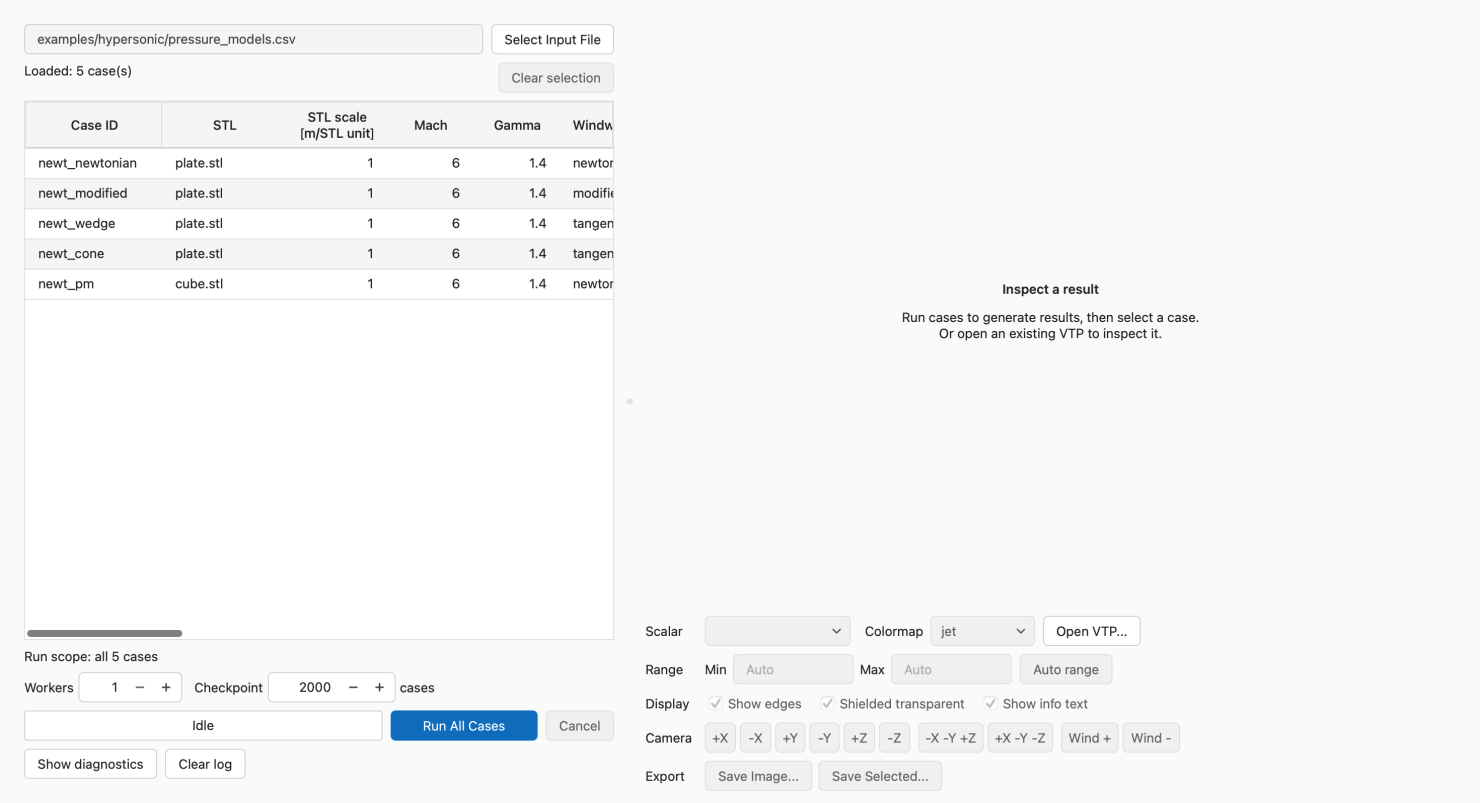
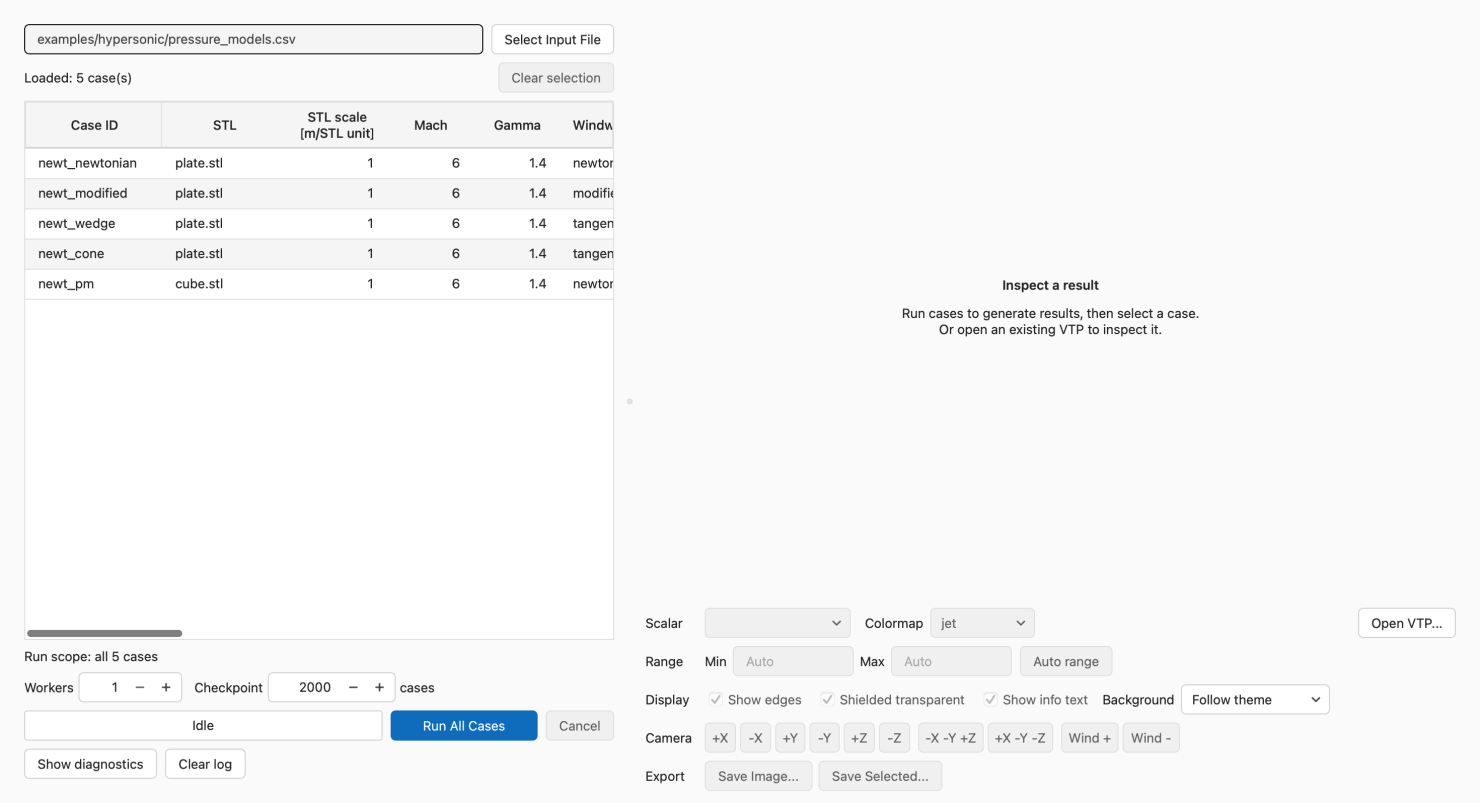
Refine GUI alignment, viewport backgrounds, and constant legends

diff --git a/src/panelsolver/app/viewer.py b/src/panelsolver/app/viewer.py
@@ -9,7 +9,7 @@ from pathlib import Path
 
 import numpy as np
 import pyvista as pv
-from PySide6 import QtCore, QtWidgets
+from PySide6 import QtCore, QtGui, QtWidgets
 from pyvistaqt import QtInteractor
 
 from .gui_components import FlowLayout
@@ -140,6 +140,27 @@ class ViewerPanel(QtWidgets.QWidget):
         self._plotter_closed = False
         self.set_artifact_view_state(self._artifact_view_state)
         self._update_export_controls()
+        self._apply_background()
+
+    def changeEvent(self, event) -> None:
+        super().changeEvent(event)
+        if event.type() == QtCore.QEvent.Type.PaletteChange and hasattr(self, "_poly"):
+            QtCore.QTimer.singleShot(0, self._apply_background)
+
+    def _apply_background(self) -> None:
+        if self._plotter_closed:
+            return
+        choice = self.cmb_background.currentData()
+        dark = choice == "black" or (
+            choice == "theme"
+            and self.palette().color(QtGui.QPalette.ColorRole.Window).lightnessF() < 0.5
+        )
+        self._viewport_foreground = "white" if dark else "black"
+        self.plotter.set_background("black" if dark else "white")
+        if self._poly is not None:
+            self.update_view()
+        else:
+            self.plotter.render()
 
     def close_plotter(self) -> None:
         """Stop periodic native rendering before the window destroys its view."""
@@ -170,6 +191,15 @@ class ViewerPanel(QtWidgets.QWidget):
             pass
 
     def _init_controls(self) -> None:
+        self.cmb_background = QtWidgets.QComboBox()
+        for label, value in (
+            ("Follow theme", "theme"),
+            ("White", "white"),
+            ("Black", "black"),
+        ):
+            self.cmb_background.addItem(label, value)
+        self.cmb_background.setAccessibleName("Viewer background")
+        self.cmb_background.currentIndexChanged.connect(self._apply_background)
         self.cmb_scalar = QtWidgets.QComboBox()
         self.cmb_scalar.setMinimumWidth(145)
         self.chk_edges = QtWidgets.QCheckBox("Show edges")
@@ -271,6 +301,10 @@ class ViewerPanel(QtWidgets.QWidget):
         self.scalar_row = QtWidgets.QWidget()
         scalar = FlowLayout(self.scalar_row)
         self.scalar_selectors = self._make_control_row()
+        self.scalar_selectors.setSizePolicy(
+            QtWidgets.QSizePolicy.Policy.Expanding,
+            QtWidgets.QSizePolicy.Policy.Preferred,
+        )
         selectors = self.scalar_selectors.layout()
         selectors.addWidget(self.cmb_scalar)
         selectors.addSpacing(8)
@@ -278,6 +312,7 @@ class ViewerPanel(QtWidgets.QWidget):
         cmap_label.setBuddy(self.cmb_cmap)
         selectors.addWidget(cmap_label)
         selectors.addWidget(self.cmb_cmap)
+        selectors.addStretch(1)
         scalar.addWidget(self.scalar_selectors)
         scalar.addWidget(self.btn_open_vtp)
 
@@ -306,6 +341,12 @@ class ViewerPanel(QtWidgets.QWidget):
             self.chk_overlay_text,
         ):
             display.addWidget(control)
+        background = self._make_control_row()
+        background_label = QtWidgets.QLabel("Background")
+        background_label.setBuddy(self.cmb_background)
+        background.layout().addWidget(background_label)
+        background.layout().addWidget(self.cmb_background)
+        display.addWidget(background)
 
         self._camera_axis_buttons = (
             self.btn_view_xp,
@@ -379,6 +420,7 @@ class ViewerPanel(QtWidgets.QWidget):
             self.chk_edges,
             self.chk_shield_transparent,
             self.chk_overlay_text,
+            self.cmb_background,
             *self._camera_buttons,
             self.btn_save_image,
             self.btn_save_selected_images,
@@ -1046,6 +1088,7 @@ class ViewerPanel(QtWidgets.QWidget):
         )
         self._overlay_actor = self.plotter.add_text(
             text,
+            color=self._viewport_foreground,
             position=(0.025, 0.965),
             viewport=True,
             font="arial",
@@ -1124,7 +1167,36 @@ class ViewerPanel(QtWidgets.QWidget):
                 "position_y": 0.02,
                 "width": 0.64,
                 "height": 0.08,
+                "color": self._viewport_foreground,
             }
+            field = self._scalar_fields[scalar_name]
+            values = np.asarray(self._poly.cell_data[scalar_name])
+            constant = (
+                not field.categorical
+                and values.size > 0
+                and np.min(values) == np.max(values)
+                and not self.edit_vmin.text().strip()
+                and not self.edit_vmax.text().strip()
+            )
+            if constant:
+                value = float(values[0])
+                color = pv.LookupTable(cmap=self.cmb_cmap.currentText()).values[0, :3]
+                common["cmap"] = [pv.Color(tuple(color / 255.0)).hex_rgb]
+                common["scalar_bar_args"].update(
+                    title=f"{self.spec.scalar_labels.get(scalar_name, scalar_name)} = {value:.6g}",
+                    n_labels=0,
+                    n_colors=1,
+                    width=0.3,
+                    position_x=0.35,
+                )
+            else:
+                limits = common["clim"]
+                if limits is not None:
+                    ticks = np.linspace(*limits, 5)
+                    for precision in range(3, 18):
+                        if len({f"{value:.{precision}g}" for value in ticks}) == 5:
+                            break
+                    common["scalar_bar_args"]["fmt"] = f"%.{precision}g"
         self._refresh_range_validation()
         shield = self._shield_mask()
         if shield is None:
@@ -1132,7 +1204,7 @@ class ViewerPanel(QtWidgets.QWidget):
         else:
             self._add_shield_groups(shield, common)
         self._update_overlay()
-        self.plotter.add_axes()
+        self.plotter.add_axes(color=self._viewport_foreground)
         if not self._restore_camera_state(previous_camera):
             self.plotter.reset_camera()
             self.plotter.view_vector(self._default_view_vec)

diff --git a/tests/gui/test_viewer_panel.py b/tests/gui/test_viewer_panel.py
@@ -73,8 +73,11 @@ class FakePlotter:
     def remove_actor(self, _actor) -> None:
         return None
 
-    def add_axes(self) -> None:
-        return None
+    def set_background(self, color) -> None:
+        self.background = color
+
+    def add_axes(self, **kwargs) -> None:
+        self.axes_kwargs = kwargs
 
     def reset_camera(self) -> None:
         self.reset_count += 1
@@ -402,9 +405,51 @@ class ViewerPanelTests(unittest.TestCase):
         self.assertEqual("cp", viewer.cmb_scalar.currentData())
         self.assertEqual("cp", plotter.mesh_calls[0][1]["scalars"])
         self.assertEqual(
-            "Cp",
+            "Cp = 0.7",
             plotter.mesh_calls[0][1]["scalar_bar_args"]["title"],
         )
+        self.assertEqual(0, plotter.mesh_calls[0][1]["scalar_bar_args"]["n_labels"])
+        self.assertEqual(1, len(plotter.mesh_calls[0][1]["cmap"]))
+
+    def test_small_scalar_variation_and_manual_range_keep_gradient(self):
+        viewer, plotter = self.make_viewer(spec=newt_solver_spec())
+        viewer.load_vtp("/tmp/case.vtp", FakePoly({"cp": [0.134001, 0.134002]}))
+        options = plotter.mesh_calls[0][1]
+        labels = [
+            options["scalar_bar_args"]["fmt"] % v
+            for v in np.linspace(0.134001, 0.134002, 5)
+        ]
+        self.assertEqual(5, len(set(labels)))
+        self.assertEqual("jet", options["cmap"])
+        viewer.edit_vmin.setText("0")
+        viewer.edit_vmax.setText("1")
+        viewer.load_vtp("/tmp/case.vtp", FakePoly({"cp": [0.7]}))
+        self.assertEqual("jet", plotter.mesh_calls[0][1]["cmap"])
+        self.assertEqual("Cp", plotter.mesh_calls[0][1]["scalar_bar_args"]["title"])
+
+    def test_background_follows_palette_and_respects_explicit_override(self):
+        from PySide6 import QtGui
+
+        viewer, plotter = self.make_viewer()
+        viewer.load_vtp("/tmp/case.vtp", FakePoly({"cp": [0.2, 0.5]}))
+        camera = viewer._capture_camera_state()
+        for window_color, expected in (("black", "black"), ("white", "white")):
+            palette = viewer.palette()
+            palette.setColor(
+                QtGui.QPalette.ColorRole.Window, QtGui.QColor(window_color)
+            )
+            viewer.setPalette(palette)
+            self.app.processEvents()
+            self.assertEqual(expected, plotter.background)
+            foreground = "white" if expected == "black" else "black"
+            self.assertEqual(foreground, plotter.axes_kwargs["color"])
+            self.assertEqual(
+                foreground, plotter.mesh_calls[0][1]["scalar_bar_args"]["color"]
+            )
+        viewer.cmb_background.setCurrentIndex(viewer.cmb_background.findData("black"))
+        viewer._apply_background()
+        self.assertEqual("black", plotter.background)
+        self.assertEqual(camera, viewer._capture_camera_state())
 
     def test_reload_uses_first_available_preferred_scalar(self) -> None:
         viewer, _plotter = self.make_viewer()

diff --git a/tests/gui/test_workbench.py b/tests/gui/test_workbench.py
@@ -33,6 +33,39 @@ class WorkbenchTests(unittest.TestCase):
         spec = spec or self.panel().spec
         return ViewerPanel(spec, plotter_factory=lambda _parent: FakePlotter())
 
+    def test_flow_centers_different_heights_on_each_wrapped_line(self):
+        host = QtWidgets.QWidget()
+        flow = FlowLayout(host)
+        widgets = [QtWidgets.QWidget(), QtWidgets.QWidget()]
+        for widget, height in zip(widgets, (20, 36), strict=True):
+            widget.setFixedSize(80, height)
+            flow.addWidget(widget)
+        flow.setGeometry(QtCore.QRect(0, 0, 200, 80))
+        self.assertEqual(
+            widgets[0].geometry().center().y(), widgets[1].geometry().center().y()
+        )
+        self.assertEqual(flow.heightForWidth(200), 36)
+        flow.setGeometry(QtCore.QRect(0, 0, 100, 80))
+        self.assertEqual(widgets[0].y(), 0)
+        self.assertEqual(widgets[1].y(), 28)
+        self.assertEqual(flow.heightForWidth(100), 64)
+
+    def test_open_vtp_is_right_aligned_with_compact_scalar_selectors(self):
+        viewer = self.viewer()
+        viewer.resize(1100, 700)
+        viewer.show()
+        self.app.processEvents()
+        button = viewer.btn_open_vtp
+        self.assertEqual(button.geometry().right(), viewer.scalar_row.rect().right())
+        self.assertGreater(
+            button.x()
+            - viewer.scalar_selectors.mapTo(
+                viewer.scalar_row, viewer.cmb_cmap.geometry().topRight()
+            ).x(),
+            100,
+        )
+        viewer.close()
+
     def layout_diagnostics(self, window):
         panel, viewer = window.cases_panel, window.viewer_panel
         objects = {

diff --git a/src/panelsolver/app/gui_components.py b/src/panelsolver/app/gui_components.py
@@ -104,10 +104,18 @@ class FlowLayout(QtWidgets.QLayout):
                     expanding.remove(item)
                 if item.hasHeightForWidth():
                     size.setHeight(item.heightForWidth(size.width()))
-                if apply:
-                    item.setGeometry(QtCore.QRect(x, y, size.width(), size.height()))
-                x += size.width() + self.spacing()
                 height = max(height, size.height())
+            for item, size in line:
+                if apply:
+                    item.setGeometry(
+                        QtCore.QRect(
+                            x,
+                            y + (height - size.height()) // 2,
+                            size.width(),
+                            size.height(),
+                        )
+                    )
+                x += size.width() + self.spacing()
             return height
 
         for item in self._items:

diff --git a/docs/user-guide/gui.md b/docs/user-guide/gui.md
@@ -87,6 +87,17 @@ existing behavior: blank endpoints are automatic. The colorbar shows the actual
 limits. Invalid numeric text falls back to the automatic range; the affected
 input is marked and its tooltip explains the fallback.
 
+**Background** offers **Follow theme** (the initial setting), **White**, and
+**Black**. Following the theme uses white in light mode and black in dark mode.
+An explicit color stays selected when the theme changes; this choice lasts for
+the current window. Viewer text and axis labels use the contrasting color, and
+saved images include the selected background.
+
+For a constant continuous scalar with both range endpoints automatic, the legend
+shows one color and one value, such as **Cp = 0.134**. Categorical fields and
+manually specified ranges retain their color scale. Small nonzero variations
+retain a gradient with enough label precision to distinguish the ticks.
+
 **Show diagnostics** opens the log and changes to **Hide diagnostics**.
 **Clear log** clears its contents and resets the warning and error counts, even
 while the log is collapsed or a run is active. New messages continue to arrive
